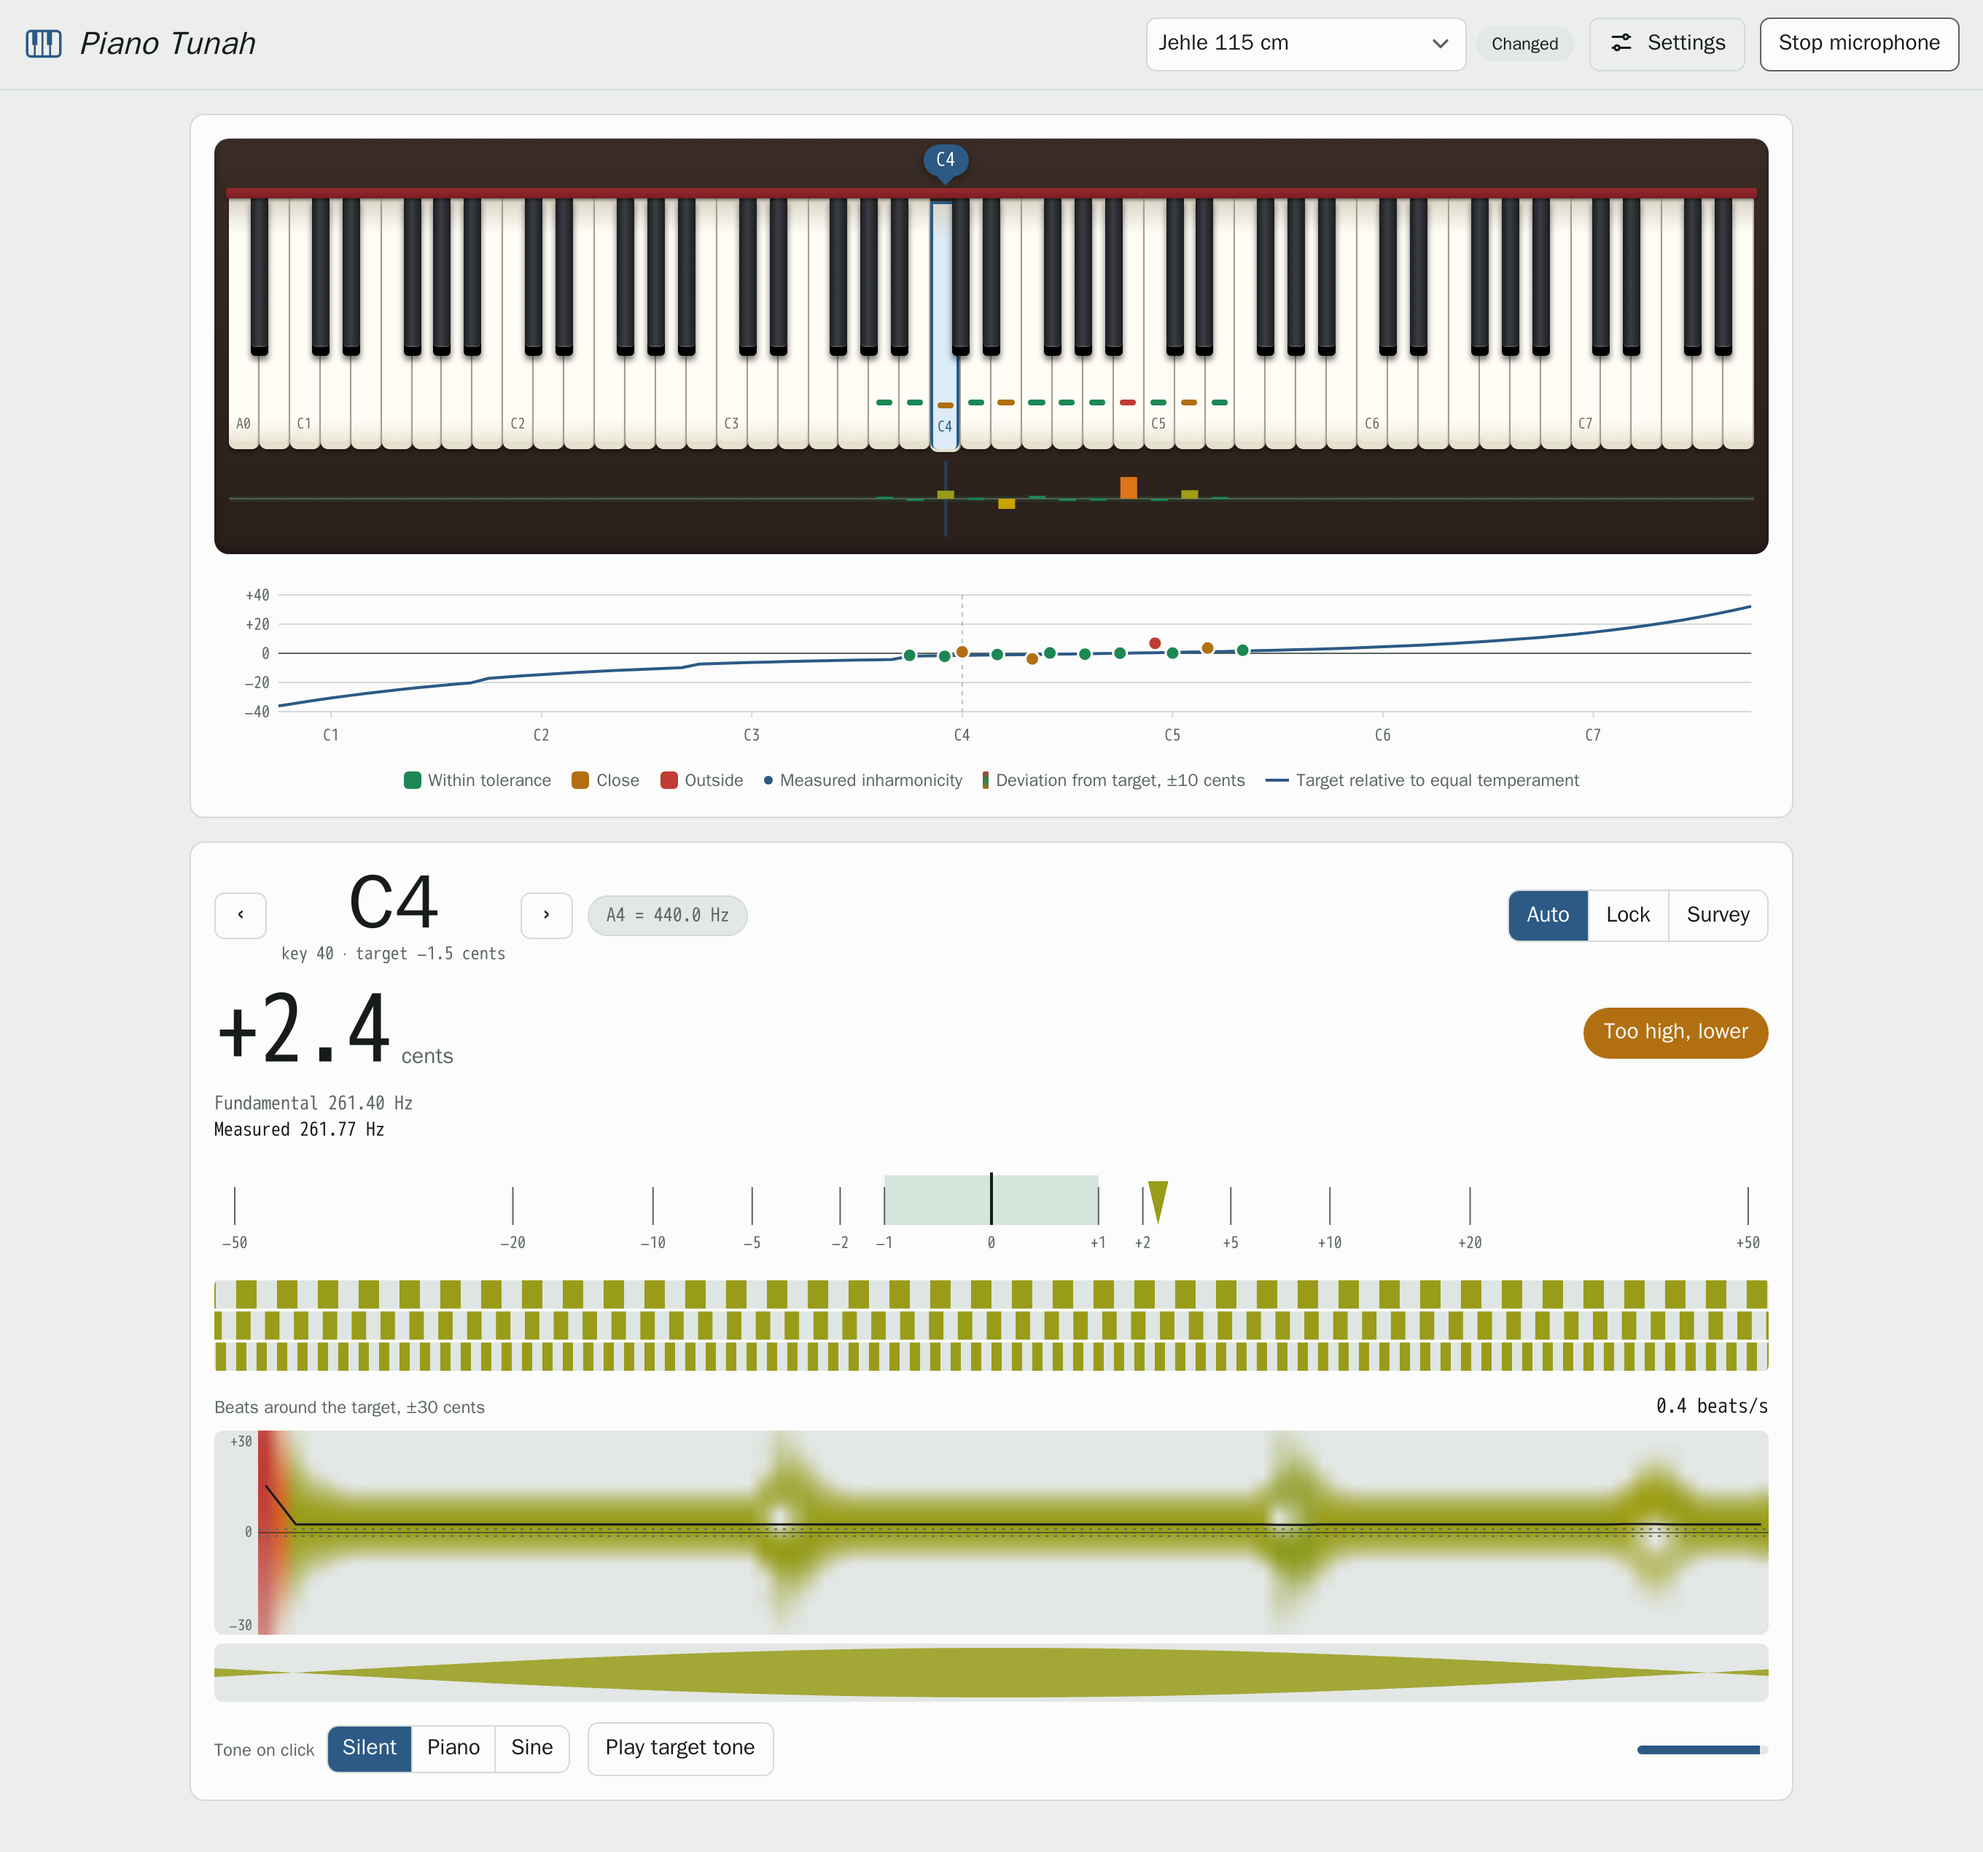
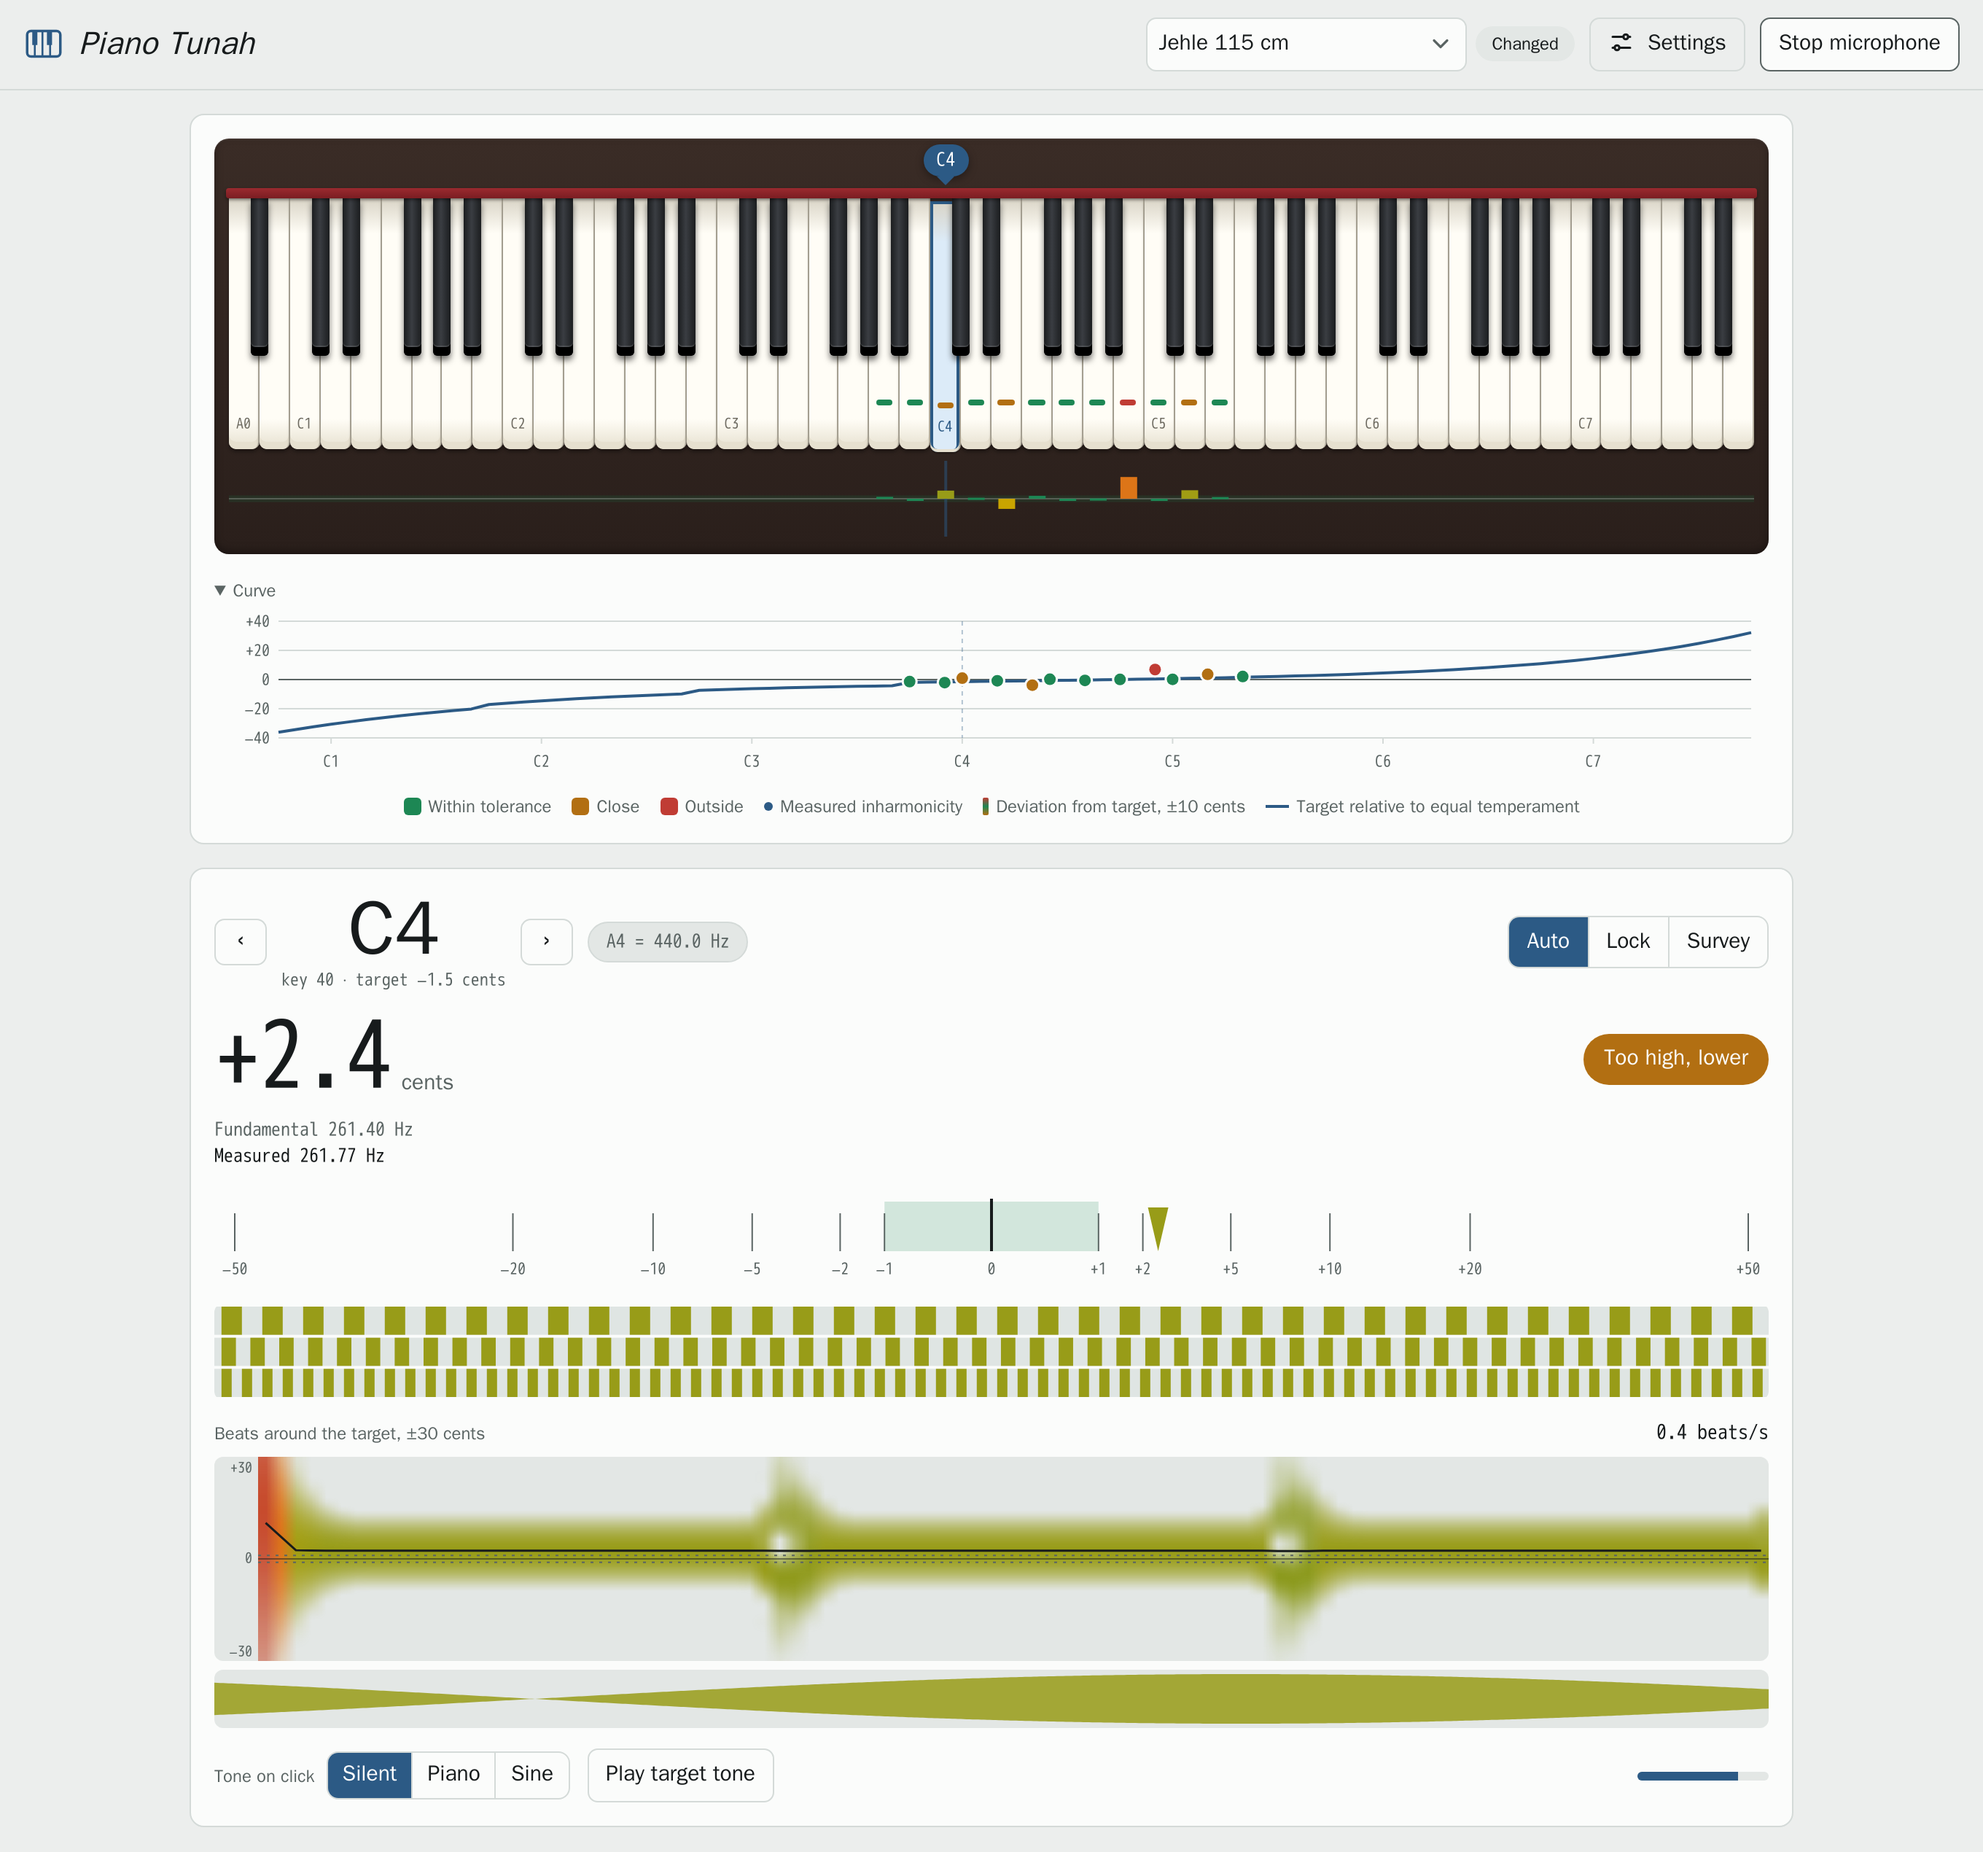
Let the curve on the main page be folded away
The choice is remembered in the browser.

Changed region(s): [[0.0938, 0.622, 0.9062, 0.9953], [0.0938, 0.311, 0.875, 0.622], [0.6562, 0.4043, 0.9062, 0.5909]]

diff --git a/web/index.html b/web/index.html
@@ -38,17 +38,20 @@
         <canvas id="devstrip" class="devstrip" height="52" role="img" aria-label="Deviation from target per key" data-i18n-aria-label="kb.strip"></canvas>
       </div>
     </div>
-    <div class="chart-wrap">
-      <canvas id="minichart" class="chart" height="120" role="img" aria-label="Target curve in cents per key" data-i18n-aria-label="curve.label"></canvas>
-      <div class="tooltip" id="minitip" hidden></div>
-    </div>
+    <details class="curve-fold" id="curve-fold" open>
+      <summary data-i18n="tab.curve">Curve</summary>
+      <div class="chart-wrap">
+        <canvas id="minichart" class="chart" height="120" role="img" aria-label="Target curve in cents per key" data-i18n-aria-label="curve.label"></canvas>
+        <div class="tooltip" id="minitip" hidden></div>
+      </div>
+    </details>
     <div class="legend">
       <span class="lg"><i class="sw s-good"></i><span data-i18n="legend.good">Within tolerance</span></span>
       <span class="lg"><i class="sw s-warn"></i><span data-i18n="legend.warn">Close</span></span>
       <span class="lg"><i class="sw s-bad"></i><span data-i18n="legend.bad">Outside</span></span>
       <span class="lg"><i class="dot-b"></i><span data-i18n="legend.b">Measured inharmonicity</span></span>
       <span class="lg"><i class="bar-sw"></i><span id="dev-legend"></span></span>
-      <span class="lg"><i class="ln"></i><span data-i18n="curve.target">Target relative to equal temperament</span></span>
+      <span class="lg lg-curve"><i class="ln"></i><span data-i18n="curve.target">Target relative to equal temperament</span></span>
     </div>
   </section>
 

diff --git a/web/js/app.js b/web/js/app.js
@@ -21,7 +21,7 @@ const FRAME_MS = 90; // analysis interval
 const SPEC_COLS = 100; // spectrogram history, ≈ 9 s
 const SPEC_BINS = 48;
 const SPEC_CENTS = 30;
-const LS = { tuning: 'pianotunah.lastTuning', tone: 'pianotunah.toneMode', theme: 'pianotunah.theme', plan: 'pianotunah.mapPlan', tab: 'pianotunah.tab' };
+const LS = { tuning: 'pianotunah.lastTuning', tone: 'pianotunah.toneMode', theme: 'pianotunah.theme', plan: 'pianotunah.mapPlan', tab: 'pianotunah.tab', curve: 'pianotunah.curve' };
 
 const mic = new Mic();
 const tones = new TonePlayer();
@@ -1239,6 +1239,11 @@ function bindEvents() {
     on(id, 'click', (e) => chartKeyAt(e) && selectKey(chartKeyAt(e)));
   }
   on('table-details', 'toggle', () => $('table-details').open && renderTable());
+  on('curve-fold', 'toggle', () => {
+    const open = $('curve-fold').open;
+    try { localStorage.setItem(LS.curve, open ? 'open' : 'closed'); } catch { /* optional */ }
+    if (open) renderChart(); // not drawn while folded
+  });
 
   // Keyboard shortcuts
   document.addEventListener('keydown', (e) => {
@@ -1306,6 +1311,7 @@ async function boot() {
   try {
     plan = localStorage.getItem(LS.plan) === 'full' ? 'full' : 'quick';
     tone = localStorage.getItem(LS.tone) || 'off';
+    if (localStorage.getItem(LS.curve) === 'closed') $('curve-fold').open = false;
   } catch { /* optional */ }
   setMapPlan(plan);
   setToneMode(tone);

diff --git a/web/style.css b/web/style.css
@@ -503,6 +503,9 @@ body.drawer-open { overflow: hidden; }
 details { margin-top: 12px; }
 summary { cursor: pointer; color: var(--accent); font-size: 14px; }
 details > .form { margin-top: 10px; }
+.curve-fold { margin-top: 0; }
+.curve-fold > summary { width: max-content; color: var(--muted); font-size: 12px; }
+.curve-fold:not([open]) ~ .legend .lg-curve { display: none; }
 .table-wrap { overflow-x: auto; max-height: 420px; overflow-y: auto; margin-top: 8px; }
 .ktable { border-collapse: collapse; width: 100%; font: 12px var(--f-mono); font-variant-numeric: tabular-nums; }
 .ktable th, .ktable td { text-align: right; padding: 4px 8px; border-bottom: 1px solid var(--line); white-space: nowrap; }
